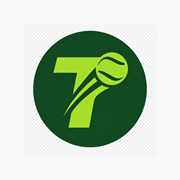
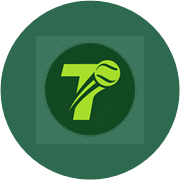
fix: icono y tabs web, callback OAuth

diff --git a/app/organizerTabs/_layout.tsx b/app/organizerTabs/_layout.tsx
@@ -2,12 +2,13 @@ import { Tabs } from "expo-router";
 import { Ionicons } from "@expo/vector-icons";
 import { Colors } from "../../src/theme/index";
 import { useSafeAreaInsets } from "react-native-safe-area-context";
-import { View, StyleSheet } from "react-native";
+import { View, StyleSheet, Platform } from "react-native";
 import { useUnreadMessagesCount } from "../../src/hooks/useNotifications";
 
 export default function OrganizerTabsLayout() {
     const insets = useSafeAreaInsets();
     const unreadMessages = useUnreadMessagesCount();
+    const isWeb = Platform.OS === "web";
 
     return (
         <Tabs
@@ -16,10 +17,12 @@ export default function OrganizerTabsLayout() {
                 tabBarActiveTintColor: Colors.primary,
                 tabBarInactiveTintColor: Colors.onSurfaceVariant,
                 tabBarStyle: {
-                    height: 56 + insets.bottom,
-                    paddingBottom: insets.bottom + 4,
+                    height: isWeb ? 76 : 56 + insets.bottom,
+                    paddingBottom: isWeb ? 24 : insets.bottom + 4,
                     paddingTop: 8,
                 },
+                tabBarLabelStyle: isWeb ? { fontSize: 10, marginTop: 2 } : undefined,
+                tabBarItemStyle: isWeb ? { paddingHorizontal: 2 } : undefined,
             }}
         >
             <Tabs.Screen

diff --git a/app/athleteTabs/_layout.tsx b/app/athleteTabs/_layout.tsx
@@ -2,12 +2,13 @@ import { Tabs } from "expo-router";
 import { Ionicons } from "@expo/vector-icons";
 import { Colors } from "../../src/theme/index";
 import { useSafeAreaInsets } from "react-native-safe-area-context";
-import { View, StyleSheet } from "react-native";
+import { View, StyleSheet, Platform } from "react-native";
 import { useUnreadMessagesCount } from "../../src/hooks/useNotifications";
 
 export default function AthleteTabsLayout() {
     const insets = useSafeAreaInsets();
     const unreadMessages = useUnreadMessagesCount();
+    const isWeb = Platform.OS === "web";
 
     return (
         <Tabs
@@ -16,10 +17,12 @@ export default function AthleteTabsLayout() {
                 tabBarActiveTintColor: Colors.primary,
                 tabBarInactiveTintColor: Colors.onSurfaceVariant,
                 tabBarStyle: {
-                    height: 56 + insets.bottom,
-                    paddingBottom: insets.bottom + 4,
+                    height: isWeb ? 76 : 56 + insets.bottom,
+                    paddingBottom: isWeb ? 24 : insets.bottom + 4,
                     paddingTop: 8,
                 },
+                tabBarLabelStyle: isWeb ? { fontSize: 10, marginTop: 2 } : undefined,
+                tabBarItemStyle: isWeb ? { paddingHorizontal: 2 } : undefined,
             }}
         >
             <Tabs.Screen

diff --git a/app/adminTabs/_layout.tsx b/app/adminTabs/_layout.tsx
@@ -2,9 +2,11 @@ import { Tabs } from 'expo-router';
 import { Ionicons } from '@expo/vector-icons';
 import { Colors } from '../../src/theme';
 import { useSafeAreaInsets } from 'react-native-safe-area-context';
+import { Platform } from 'react-native';
 
 export default function AdminTabsLayout() {
     const insets = useSafeAreaInsets();
+    const isWeb = Platform.OS === 'web';
 
     return (
         <Tabs
@@ -13,10 +15,12 @@ export default function AdminTabsLayout() {
                 tabBarActiveTintColor: Colors.primary,
                 tabBarInactiveTintColor: Colors.onSurfaceVariant,
                 tabBarStyle: {
-                    height: 56 + insets.bottom,
-                    paddingBottom: insets.bottom + 4,
+                    height: isWeb ? 76 : 56 + insets.bottom,
+                    paddingBottom: isWeb ? 24 : insets.bottom + 4,
                     paddingTop: 8,
                 },
+                tabBarLabelStyle: isWeb ? { fontSize: 10, marginTop: 2 } : undefined,
+                tabBarItemStyle: isWeb ? { paddingHorizontal: 2 } : undefined,
             }}
         >
             <Tabs.Screen

diff --git a/app/+html.tsx b/app/+html.tsx
@@ -8,6 +8,7 @@ export default function Root({ children }: PropsWithChildren) {
                 <meta charSet="utf-8" />
                 <meta httpEquiv="X-UA-Compatible" content="IE=edge" />
                 <meta name="viewport" content="width=device-width, initial-scale=1, viewport-fit=cover" />
+                <link rel="icon" type="image/png" href="/icon-192.png" />
                 <link rel="manifest" href="/manifest.json" />
                 <link rel="apple-touch-icon" href="/apple-touch-icon.png" />
                 <meta name="apple-mobile-web-app-capable" content="yes" />

diff --git a/src/services/authService.web.ts b/src/services/authService.web.ts
@@ -7,7 +7,9 @@ export function isGoogleSignInAvailable(): boolean {
 }
 
 async function signInWithProvider(provider: OAuthProvider): Promise<boolean> {
-    const redirectTo = typeof window !== 'undefined' ? window.location.origin : undefined;
+    const redirectTo = typeof window !== 'undefined'
+        ? `${window.location.origin}/auth/callback`
+        : undefined;
 
     const { error } = await supabase.auth.signInWithOAuth({
         provider,

diff --git a/public/index.html b/public/index.html
@@ -5,6 +5,7 @@
     <meta http-equiv="X-UA-Compatible" content="IE=edge" />
     <meta name="viewport" content="width=device-width, initial-scale=1, viewport-fit=cover" />
     <title>%WEB_TITLE%</title>
+    <link rel="icon" type="image/png" href="/icon-192.png" />
     <link rel="manifest" href="/manifest.json" />
     <link rel="apple-touch-icon" href="/apple-touch-icon.png" />
     <meta name="apple-mobile-web-app-capable" content="yes" />

diff --git a/docs/PWA.md b/docs/PWA.md
@@ -24,7 +24,8 @@ npx tsc --noEmit   # verificación de tipos
 - `vercel.json` define `buildCommand: npm run build:web`, `outputDirectory: dist`, rewrite `/(.*)` → `/index.html` y `Cache-Control` sin caché para `/sw.js`.
 - `dist/` y `.env` ya están en `.gitignore`: Vercel genera el build y las variables se cargan desde el dashboard.
 - Variables de entorno en Vercel (Production y Preview): `EXPO_PUBLIC_SUPABASE_URL` y `EXPO_PUBLIC_SUPABASE_ANON_KEY`. No agregar `NOTIFY_SECRET` ni secretos de servidor.
-- En Supabase → Auth → URL Configuration agregar el dominio de Vercel a Site URL/Redirect allowlist; para previews usar `https://*.vercel.app/**`.
+- En Supabase → Auth → URL Configuration agregar `https://<dominio>/auth/callback` en Redirect URLs (y Site URL con el origen); para previews usar `https://*.vercel.app/**`.
+- El OAuth web vuelve a `/auth/callback` (`app/auth/callback.web.tsx`); si redirectTo es solo `/`, el código queda sin procesar.
 - Desplegar con `vercel` (preview) o `vercel --prod`; la CLI imprime la URL HTTPS. También funciona conectando el repo por GitHub.
 - Vercel compila con `NODE_ENV=production`, por lo que el service worker se registra también en previews.
 
@@ -39,7 +40,8 @@ npx tsc --noEmit   # verificación de tipos
 ## PWA / iOS
 
 - `public/manifest.json`: `display: standalone`, `start_url: /`, `theme_color` `#2D6A4F`, iconos `any` y `maskable`.
-- Íconos generados: `icon-192.png`, `icon-512.png`, `icon-maskable-512.png`, `apple-touch-icon.png`.
+- Íconos generados desde `public/icon-transparent.png` (logo sin fondo): `icon-192.png` e `icon-512.png` transparentes para favicon/manifiesto; `apple-touch-icon.png` con círculo verde; `icon-maskable-512.png` para Android.
+- El favicon se declara como PNG transparente en `public/index.html` y `app/+html.tsx` (`/icon-192.png`), sin ICO con fondo.
 - Splashes: `splash-1125x2436.png`, `splash-1170x2532.png`, `splash-1179x2556.png`, `splash-1242x2688.png`, `splash-1290x2796.png`.
 - `InstallPrompt.web.tsx` muestra una vez el aviso “Compartir → Agregar a pantalla de inicio” en iOS Safari no standalone; se descarta guardando `tenistuc:install-dismissed` en localStorage.
 - No se usa `beforeinstallprompt` porque Safari no lo soporta.
